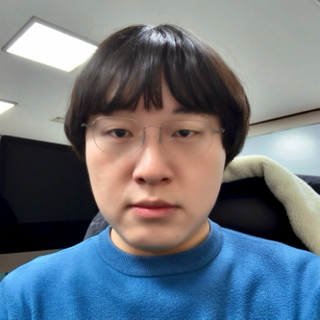
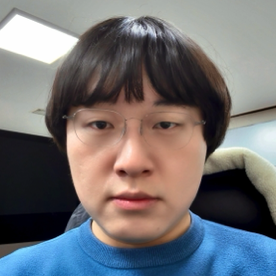
Update profile photo

diff --git a/index.html b/index.html
@@ -40,7 +40,7 @@
     <nav class="navbar navbar-expand-lg navbar-dark bg-primary fixed-top" id="sideNav">
         <a class="navbar-brand js-scroll-trigger" href="index.html">
             <span class="d-block d-lg-none">Jun-Sung Moon</span>
-            <span class="d-none d-lg-block"><img class="img-fluid img-profile rounded-circle mx-auto mb-2" src="assets/img/jsmoon_old.png" alt="Photo of Jun-Sung Moon" /></span>
+            <span class="d-none d-lg-block"><img class="img-fluid img-profile rounded-circle mx-auto mb-2" src="assets/img/jsmoon.png" alt="Photo of Jun-Sung Moon" /></span>
         </a>
         <button class="navbar-toggler" type="button" data-bs-toggle="collapse" data-bs-target="#navbarResponsive" aria-controls="navbarResponsive" aria-expanded="false" aria-label="Toggle navigation"><span class="navbar-toggler-icon"></span></button>
         <div class="collapse navbar-collapse" id="navbarResponsive">
